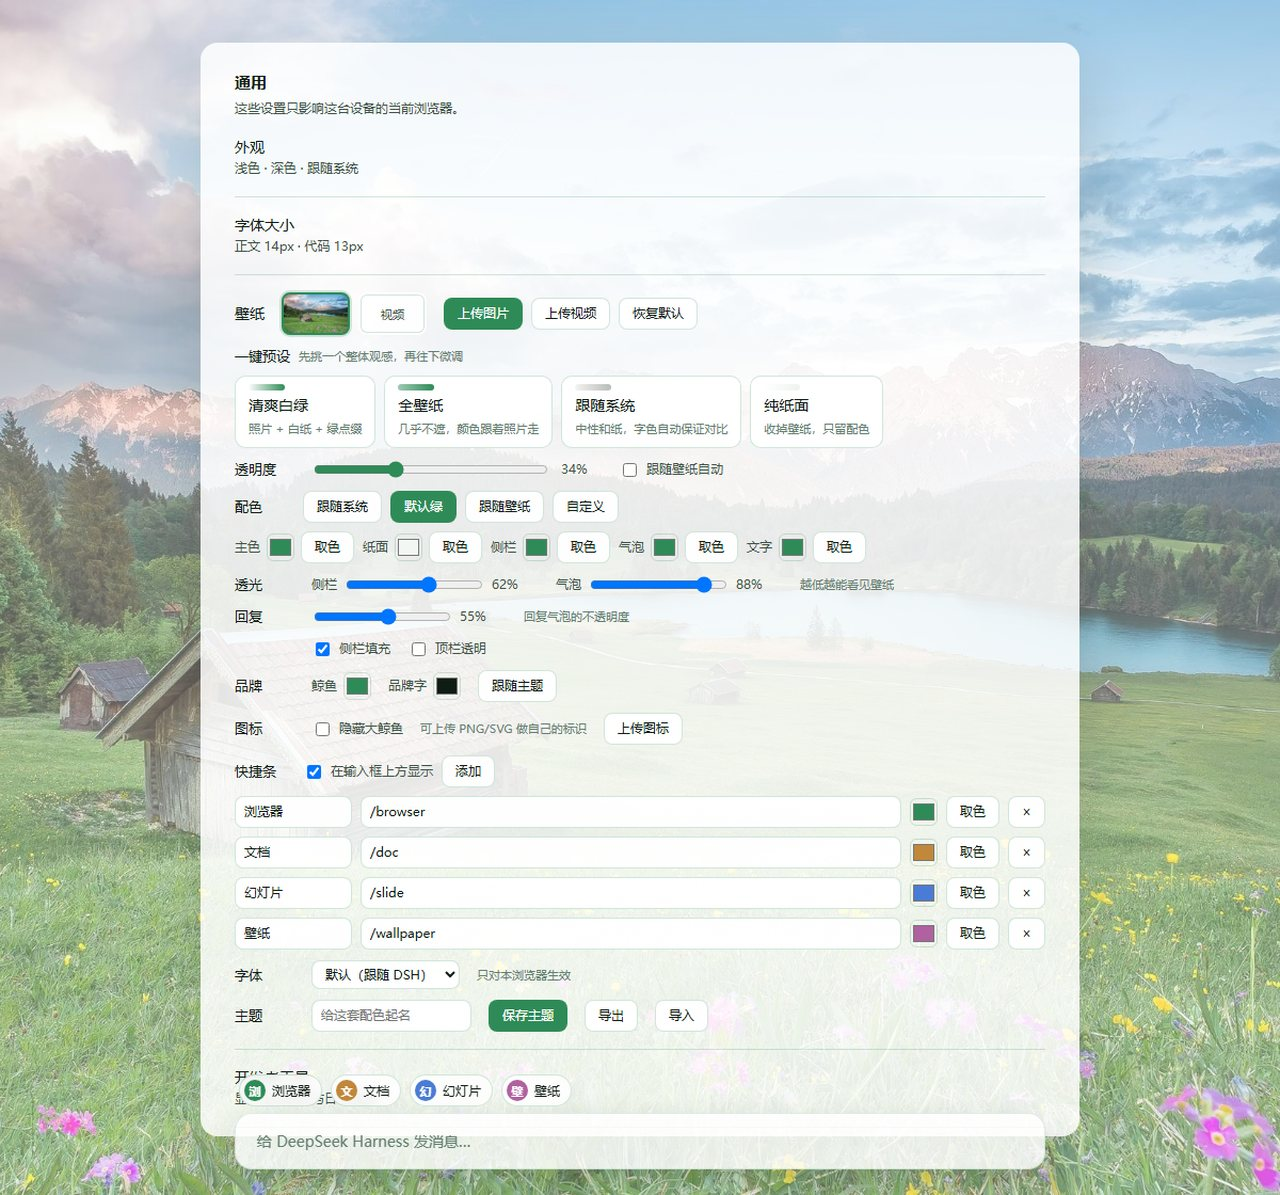
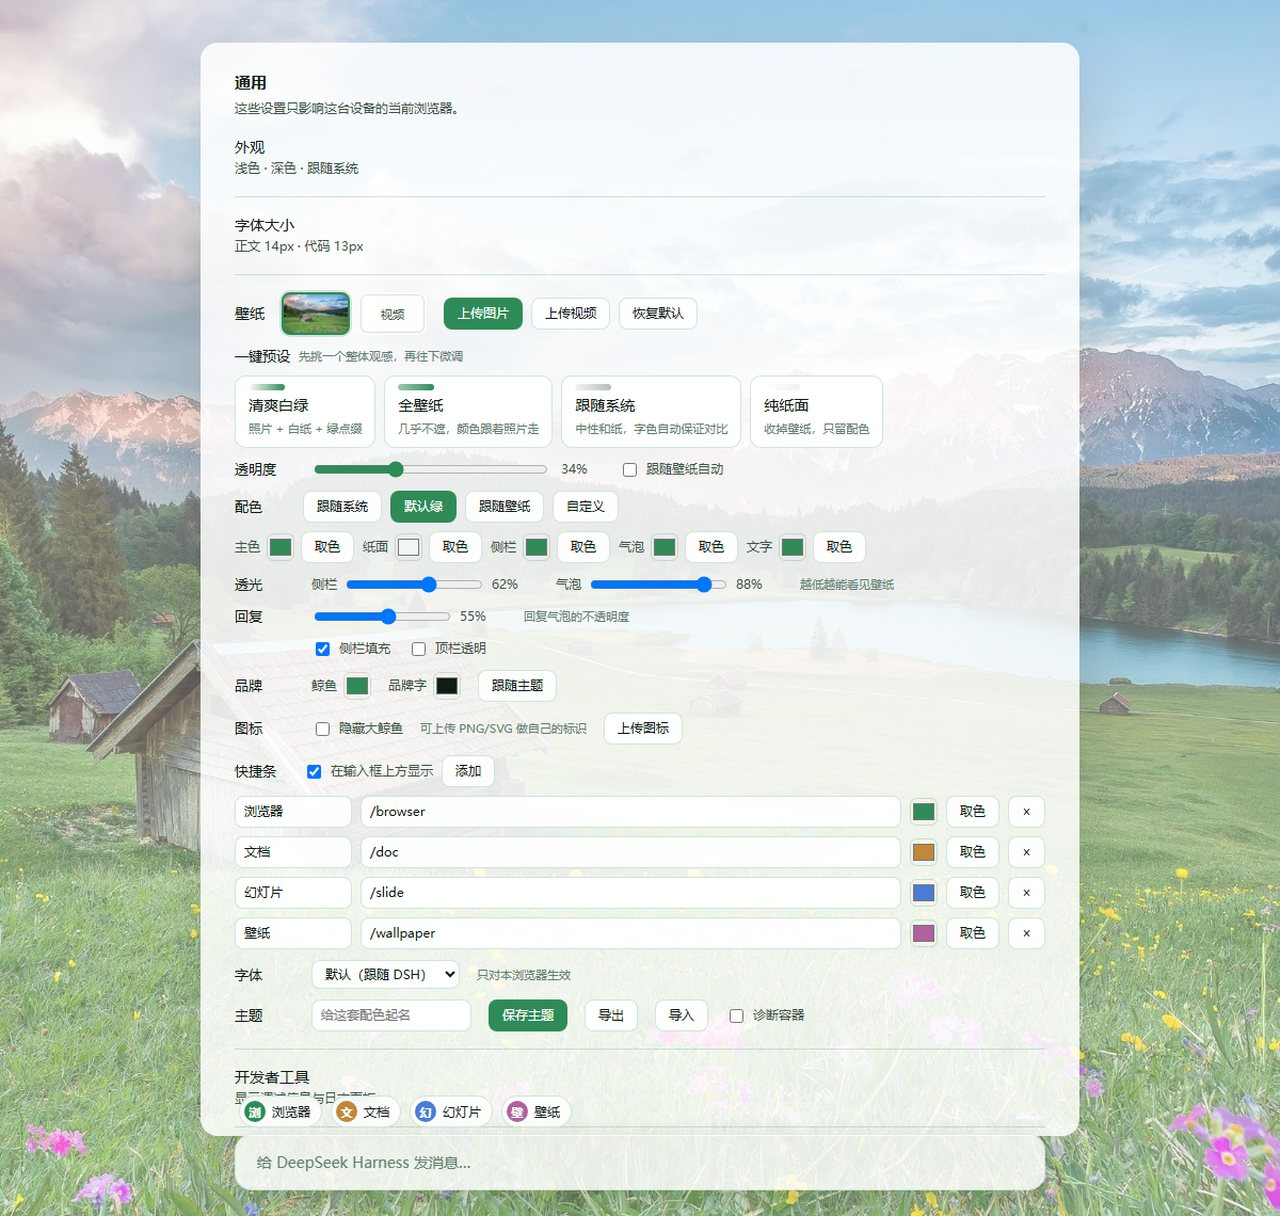
fix: match reply rows by exclusion and add a container diagnostic (1.9.1)

diff --git a/client.js b/client.js
@@ -127,24 +127,57 @@ body[data-fresh-skin='on'] [class*='_titleGroup'] {
   --dsw-alias-label-primary-inverted: var(--fgw-brand-inverted, #fafdfa);
 }
 /* Replies: the assistant text sits on its own surface, so it stays readable no
-   matter what the wallpaper is doing underneath. Opacity is user controlled. */
-body[data-fresh-skin='on'] [data-chat-flow-kind='assistant'] {
+   matter what the wallpaper is doing underneath. Opacity is user controlled.
+
+   The host tags every flow row with data-chat-flow-kind; replies are the rows
+   that are neither the user's own message nor a tool/process card. Matching by
+   exclusion keeps working if the host renames the assistant kinds. */
+body[data-fresh-skin='on'] [data-chat-flow-kind]:not([data-chat-flow-kind^='user']):not([data-chat-flow-kind^='tool']):not([data-chat-flow-kind^='turn']):not([data-chat-flow-kind='compaction']):not([data-chat-flow-kind='context']):not([data-chat-flow-kind='system']) {
   background: var(--fgw-assistant, rgba(255,255,255,0.55));
   border: 1px solid var(--dsw-alias-border-l1, rgba(47,143,91,0.16));
   border-radius: 14px;
   padding: 12px 16px;
   box-sizing: border-box;
 }
-body[data-ds-dark-theme][data-fresh-skin='on'] [data-chat-flow-kind='assistant'] {
+body[data-ds-dark-theme][data-fresh-skin='on'] [data-chat-flow-kind]:not([data-chat-flow-kind^='user']):not([data-chat-flow-kind^='tool']):not([data-chat-flow-kind^='turn']):not([data-chat-flow-kind='compaction']):not([data-chat-flow-kind='context']):not([data-chat-flow-kind='system']) {
   background: var(--fgw-assistant-dark, var(--fgw-assistant, rgba(255,255,255,0.55)));
 }
-body[data-fresh-skin='on'] [data-chat-flow-kind='assistant'] > *:first-child {
+body[data-fresh-skin='on'] [data-chat-flow-kind] > [data-slot='conversation.chat.node'] {
+  background: none;
+  border: 0;
+  padding: 0;
+  border-radius: 0;
+}
+body[data-fresh-skin='on'] [data-chat-flow-kind] > *:first-child {
   margin-top: 0;
 }
-body[data-fresh-skin='on'] [data-chat-flow-kind='assistant'] > *:last-child {
+body[data-fresh-skin='on'] [data-chat-flow-kind] > *:last-child {
   margin-bottom: 0;
 }
-
+/* Diagnostic overlay (设置 → 主题 → 诊断容器): labels each flow row with its kind
+   so a single screenshot tells us exactly which selector the host exposes. */
+body[data-fgw-debug][data-fresh-skin='on'] [data-chat-flow-kind] {
+  outline: 2px dashed rgba(214, 76, 76, 0.9) !important;
+  outline-offset: -2px;
+}
+body[data-fgw-debug][data-fresh-skin='on'] [data-chat-flow-kind]::before {
+  content: attr(data-chat-flow-kind);
+  position: absolute;
+  margin-top: -18px;
+  padding: 1px 6px;
+  border-radius: 4px;
+  background: rgba(214, 76, 76, 0.92);
+  color: #fff;
+  font: 11px/1.4 ui-monospace, monospace;
+  z-index: 9;
+  pointer-events: none;
+}
+/* Second diagnostic pass: outline the prose blocks too, so a screenshot still
+   tells us something even if the host dropped the flow-kind attribute. */
+body[data-fgw-debug][data-fresh-skin='on'] [class*='prose'] {
+  outline: 1px solid rgba(76, 120, 214, 0.95) !important;
+  outline-offset: -1px;
+}
 /* Quick-launch chips docked right above the composer. */
 .fgw-dock {
   display: flex; align-items: center; flex-wrap: wrap; gap: 8px;
@@ -526,6 +559,7 @@ function defaults() {
     paper: '',
     logo: '',
     hideWhale: false,
+    debug: false,
     colors: { brand: '', sidebar: '', bubble: '', text: '', whale: '', wordmark: '' },
     alpha: { sidebar: 62, bubble: 88, assistant: 55 },
     chips: { enabled: true, items: [] },
@@ -819,6 +853,8 @@ function applyState(next) {
     else delete body.dataset.fgwLogo
     if (next.hideWhale) body.dataset.fgwHideWhale = 'on'
     else delete body.dataset.fgwHideWhale
+    if (next.debug) body.dataset.fgwDebug = 'on'
+    else delete body.dataset.fgwDebug
     if (next.source.kind === 'video') body.dataset.fgwVideo = 'on'
     else delete body.dataset.fgwVideo
   }
@@ -1832,6 +1868,16 @@ window.__ModuleLoader__.load({
           h('button', { className: 'fgw-btn primary', onClick: saveTheme }, '保存主题'),
           h('button', { className: 'fgw-btn', title: '把当前配色和已存主题导出成一个 JSON 文件', onClick: exportJson }, '导出'),
           h('button', { className: 'fgw-btn', title: '从别人分享的 JSON 导入配色', onClick: importJson }, '导入'),
+          h(
+            'label',
+            { className: 'fgw-toggle', title: '排查用：给每条消息画框并标出它的类型，截图发我就能定位样式没生效的原因' },
+            h('input', {
+              type: 'checkbox',
+              checked: Boolean(current.debug),
+              onChange: (event) => setState({ ...current, debug: event.target.checked }),
+            }),
+            '诊断容器',
+          ),
           h(
             'div',
             { className: 'fgw-actions' },

diff --git a/docs/DETAIL.md b/docs/DETAIL.md
@@ -17,7 +17,8 @@
   - 遮罩方向由 `--fgw-scrim` / `--fgw-scrim-dark`（`255,255,255` / `6,12,9` 这类 RGB 三元组）控制，浅色系统纸抬高、深色纸（墨黑）压暗。
 - **系统纸色**：`SYSTEM_TONES` 五套——中性灰 `#f4f5f4`、冷白 `#eef3f7`、暖白 `#f7f3ec`、雾灰 `#e7ebe9`、墨黑 `#20262a`（`dark: true`）。`palette: 'system'` 时面板取 `withAlpha(tone.paper, alpha…)`，文字按 tone 明暗给 `#0f1c14` / `#f2faf5`，边框换中性色，勾「中性强调色」再把品牌色降到 `#4c5f56` / `#a9c3b6`。
 - **侧栏不铺色**：`state.sidebarFill === false` 时 `applyState` 直接把 `--fgw-sidebar` 写成 `transparent`，侧栏与顶栏条带都只透壁纸；开着时按 `colors.sidebar || paper || tone.paper` + `alpha.sidebar` 铺一层。
-- **回复气泡**：助手回复在宿主里的容器带 `data-chat-flow-kind="assistant"`，插件给它加 `background: var(--fgw-assistant)` + 1px 描边 + 14px 圆角 + 12/16px 内边距。`applyState` 写两个变量：`--fgw-assistant`（`withAlpha(colors.bubble || sidebar, alpha.assistant)`，默认 55%）和 `--fgw-assistant-dark`（同一个色、alpha +8），深色由 `body[data-ds-dark-theme]` 规则切线，不需要 JS 探测主题。容器上第一条/最后一条子元素的 `margin` 归零，避免气泡里多出空白。
+- **诊断容器**（`state.debug`）：给 `body` 打 `data-fgw-debug` 后，每条 `[data-chat-flow-kind]` 行会画 2px 红色虚线，并用 `::before { content: attr(data-chat-flow-kind) }` 在行的左上角标出它的类型；同时给 `[class*='prose']` 加蓝色描边。用户拉不动气泡时，勾上它截一张图就能看出宿主到底用了哪个标记。
+- **回复气泡**：宿主给每条消息行打 `data-chat-flow-kind`（值取自消息类型）。插件不用白名单，改用排除法命中“既不是用户消息、也不是工具/过程卡片”的行：`[data-chat-flow-kind]:not([data-chat-flow-kind^='user']):not([data-chat-flow-kind^='tool']):not([data-chat-flow-kind^='turn']):not([data-chat-flow-kind='compaction']):not([data-chat-flow-kind='context']):not([data-chat-flow-kind='system'])`，这样宿主把 `assistant` 改名成 `reply` 之类也不用改代码。命中后加 `background: var(--fgw-assistant)` + 1px 描边 + 14px 圆角 + 12/16px 内边距；行内的 `[data-slot='conversation.chat.node']` 会被清掉背景/描边/内边距，避免叠出第二层气泡。`applyState` 写两个变量：`--fgw-assistant`（`withAlpha(colors.bubble || sidebar, alpha.assistant)`，默认 55%）和 `--fgw-assistant-dark`（同一个色、alpha +8），深色由 `body[data-ds-dark-theme]` 规则切线，不需要 JS 探测主题。容器上第一条/最后一条子元素的 `margin` 归零，避免气泡里多出空白。
 - **字体**：`--fgw-font` 写到 `body` 的 `font-family`，选项见 `FONTS`（默认 / 黑体 / 宋体 / 楷体 / 衬线英文 / 等宽）；默认值 `inherit` 保持 DSH 原样。
 - **设置项**：注册到 `settings.general.item`（id `fresh-green-wallpaper`，order 20），分九行：
   1. 壁纸：画廊缩略图（内置图 / “我的图片” / “视频”块）+ 上传图片 / 上传视频 / 恢复默认

diff --git a/README.md b/README.md
@@ -98,6 +98,7 @@ node tools/smoke-test.cjs
 - 大鲸鱼、侧栏字样、快捷条都是**尽力而为**地贴着宿主渲染的标记/插槽做：鲸鱼是 `canvas[data-home-whale]`（宿主画它时读 `color`），侧栏是 `[class*='_brandName']` / `[class*='_brandIdentity']`，快捷条走官方的 `conversation.input.dock` 插槽。DSH 换掉这些标记名时，对应的着色会失效（不会影响别处），到时对照 `client.js.tpl` 的 CSS 改选择器即可。
 - 快捷条的点击依赖找到 composer 的 textarea（`[data-composer] textarea` → `textarea` → `[contenteditable]` 依次尝试）；若某个版本用了别的输入组件，图标能显示但插入会失败。
 - 视频壁纸用 `position: fixed` 的负 z-index 元素铺在内容后面，个别主题若给 `html`/`body` 加了不透明背景，视频会被盖住——这时把透明度调低或先切回图片壁纸即可。
+- 回复气泡靠宿主的 `data-chat-flow-kind` 标记识别“不是用户消息、也不是工具卡片”的行；如果某个版本换了这套标记，气泡不会出现（也不影响其他功能）。这时打开设置里的 **诊断容器**：每条消息会被画上红色虚线并标出它的类型，截一张图就能定位该改哪个选择器。
 
 ## 兼容性
 
